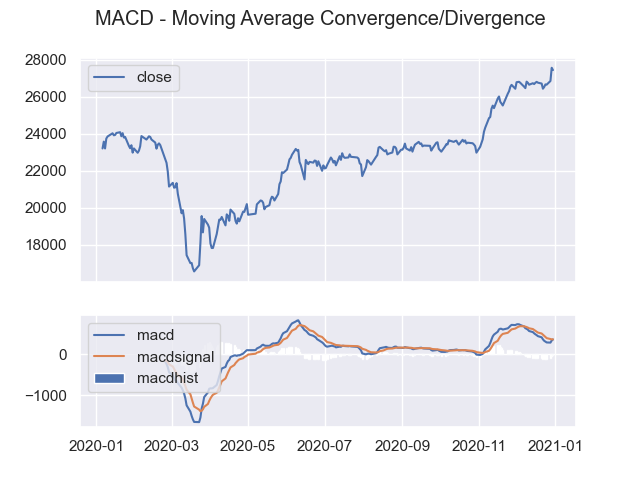
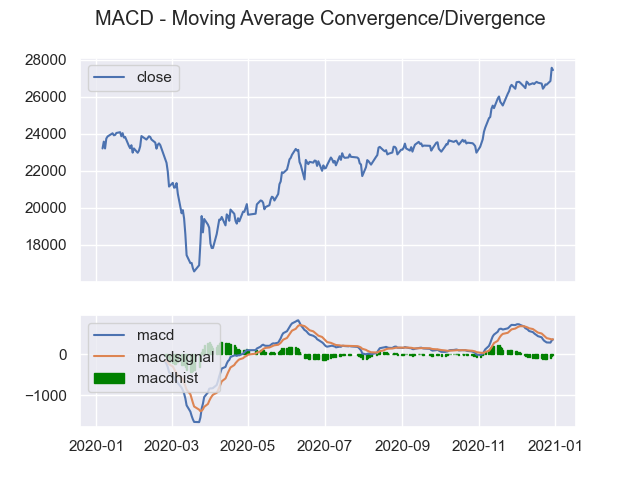
changed rsi bar color

Changed region(s): [[0.25, 0.6875, 0.875, 0.7812], [0.125, 0.75, 0.2188, 0.8125]]

diff --git a/stock_indicator.py b/stock_indicator.py
@@ -98,7 +98,7 @@ def ht_trendline(close, graph=False, **kwargs):
     if graph:
         title = 'HT_TRENDLINE - Hilbert Transform - Instantaneous Trendline'
         style = ['r-']+['--']*(len(df.columns)-1)
-        fname = '04_ha_trendline.png'
+        fname = '04_ht_trendline.png'
         make_graph(title, df, style=style, fname=fname)
     return df
 
@@ -402,7 +402,8 @@ def macd(close, graph=False, **kwargs):
         axes[0].plot(df['close'], label='close')
         axes[1].plot(df['macd'], label='macd')
         axes[1].plot(df['macdsignal'], label='macdsignal')
-        axes[1].bar(df.index, height=df['macdhist'], label='macdhist')
+        axes[1].bar(df.index, height=df['macdhist'],
+                    label='macdhist', color='green', ec='green')
         for ax in axes:
             ax.legend(loc='upper left')
         plt.savefig(fname)
